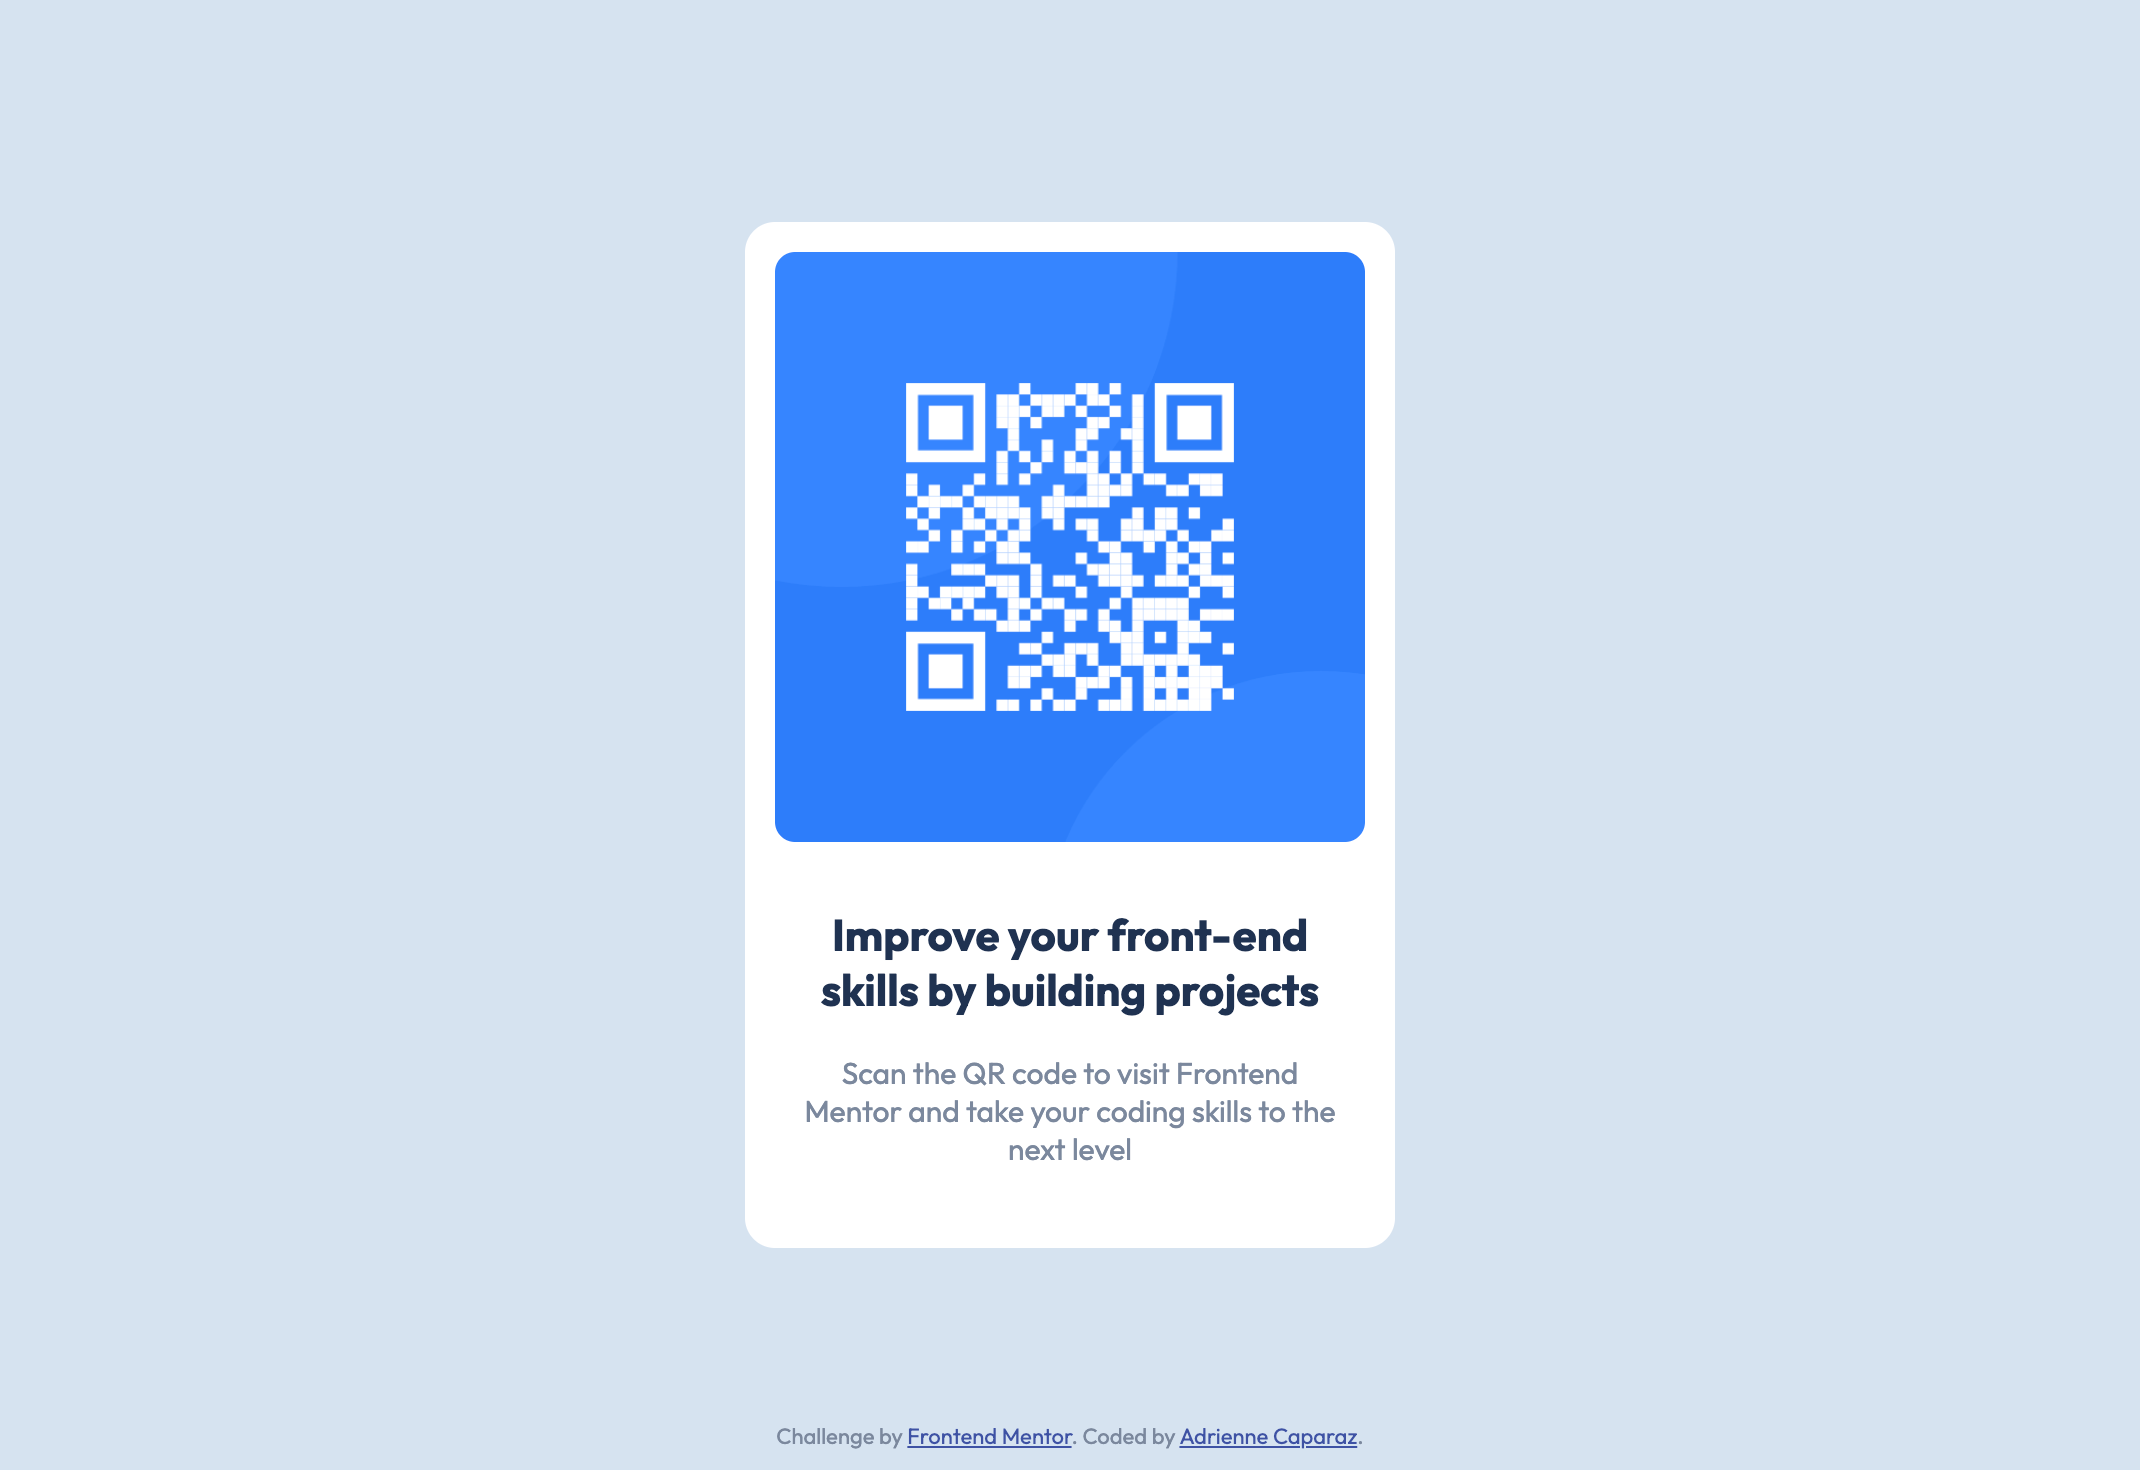
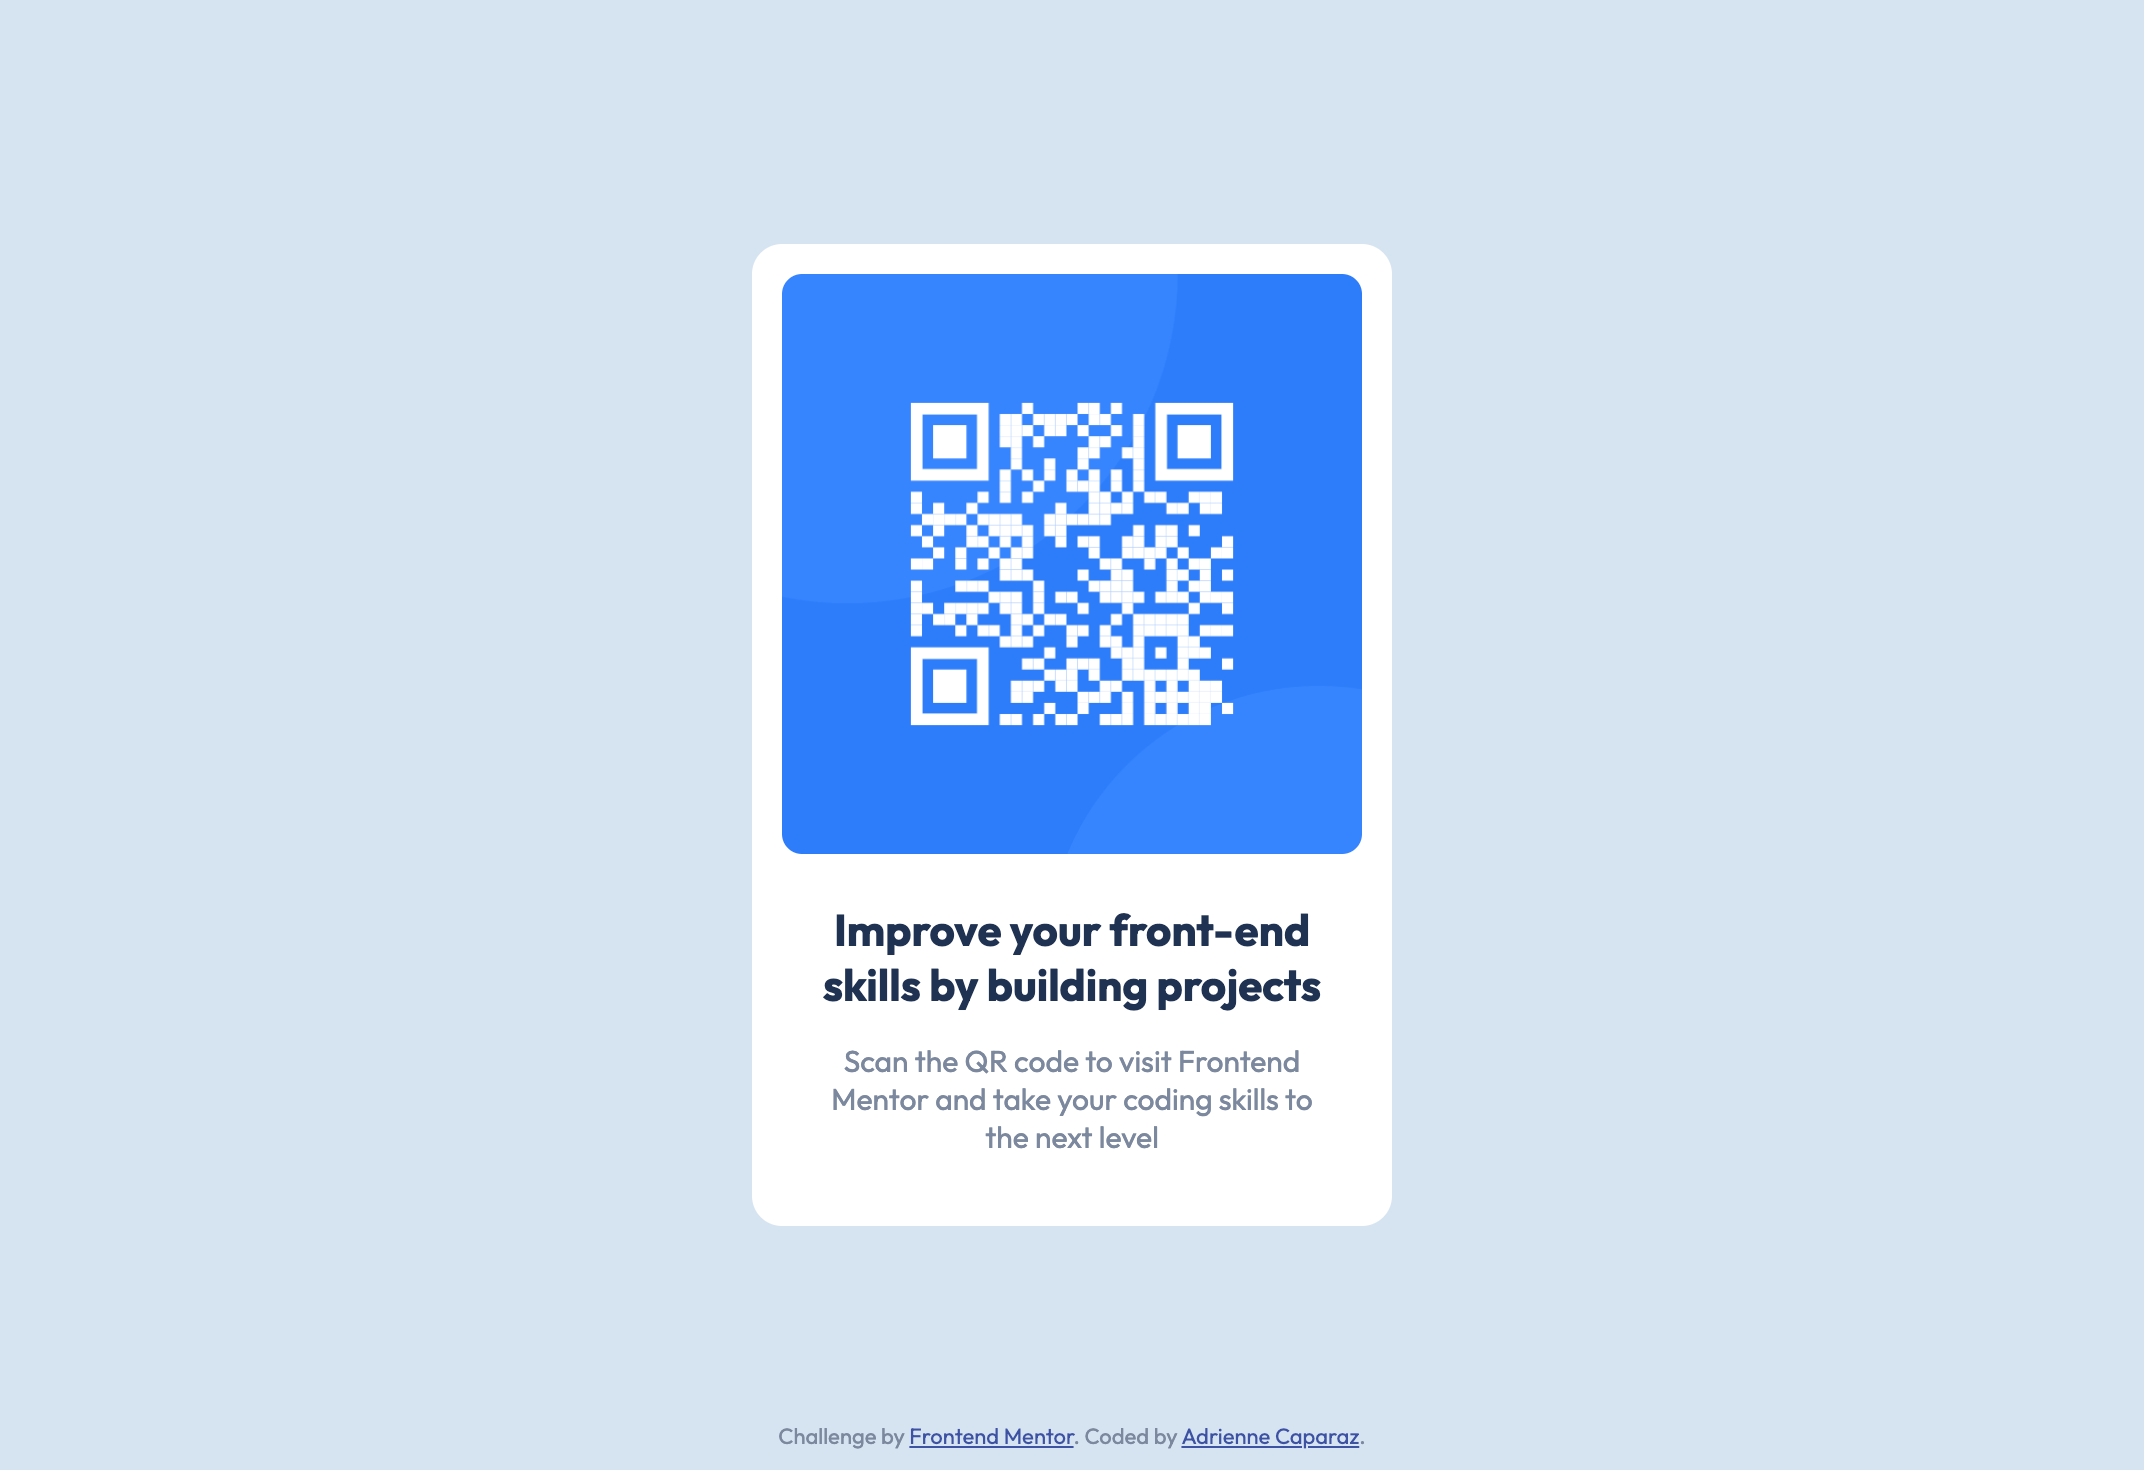
text padding adjustment

diff --git a/index.css b/index.css
@@ -39,7 +39,7 @@ main {
 }
 
 .description {
-    padding: 5px 10px;
+    padding: 5px 15px;
     text-align: center;
 }
 
